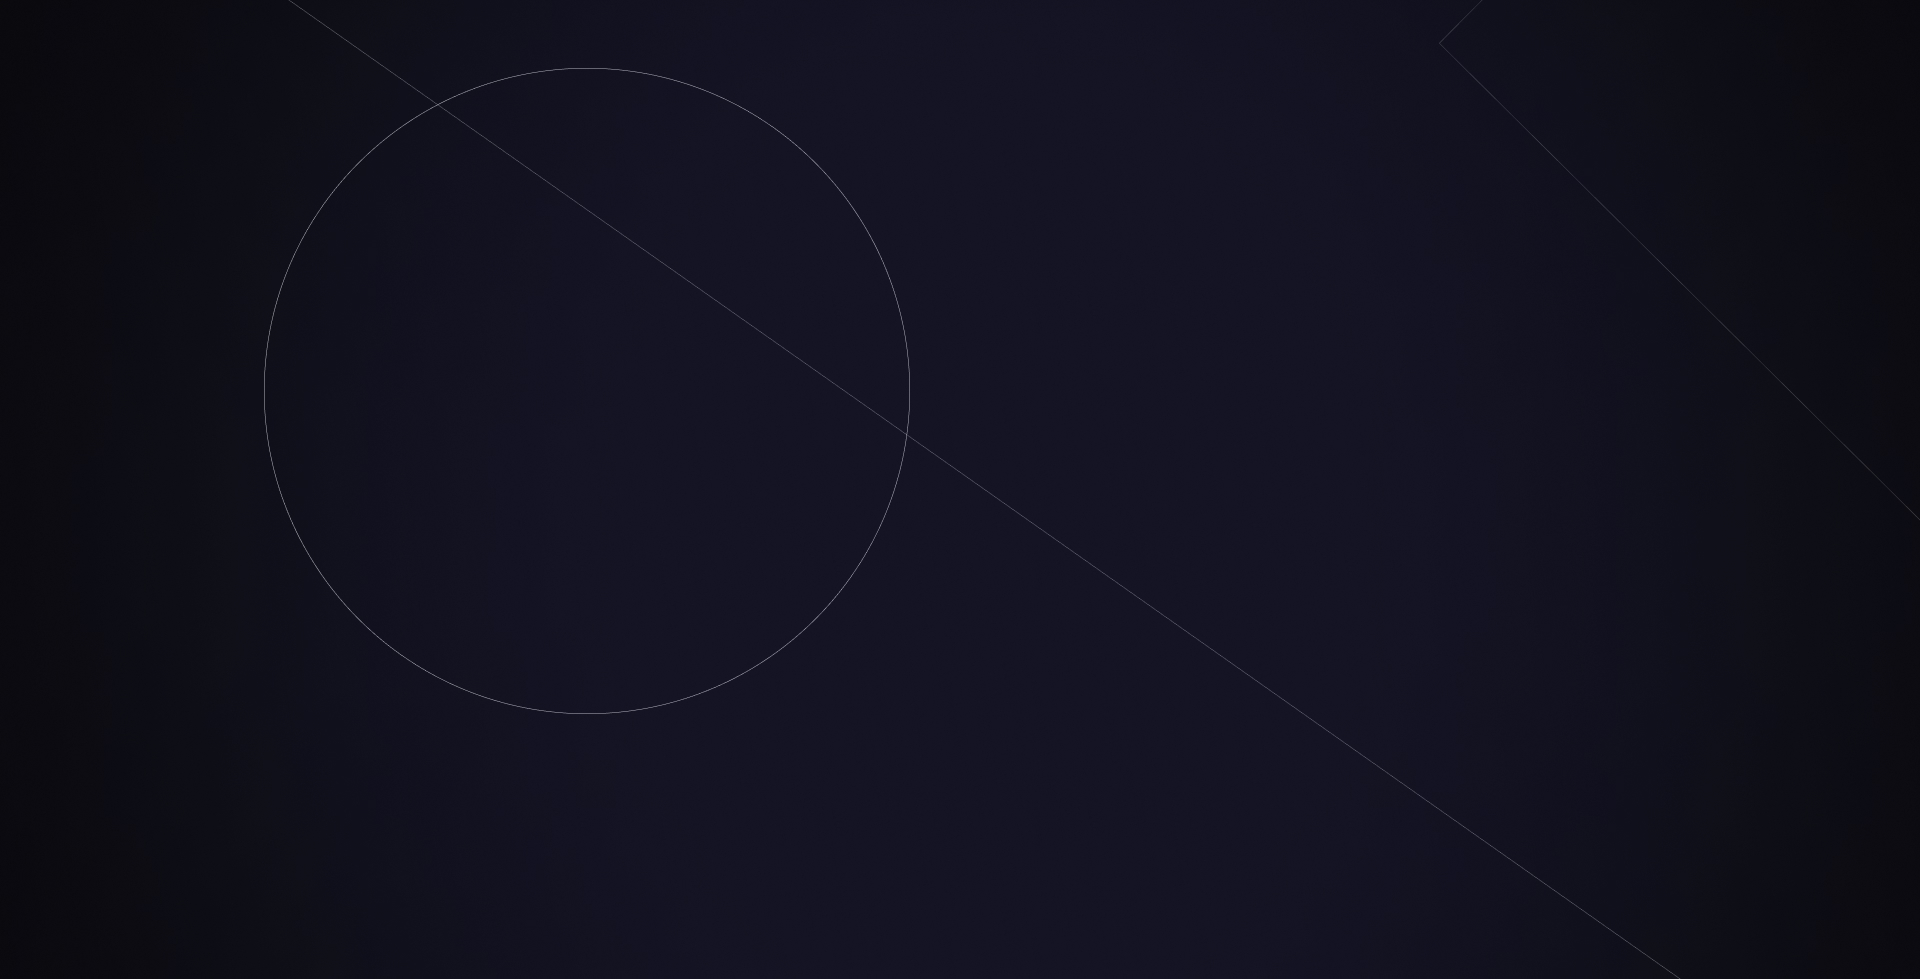
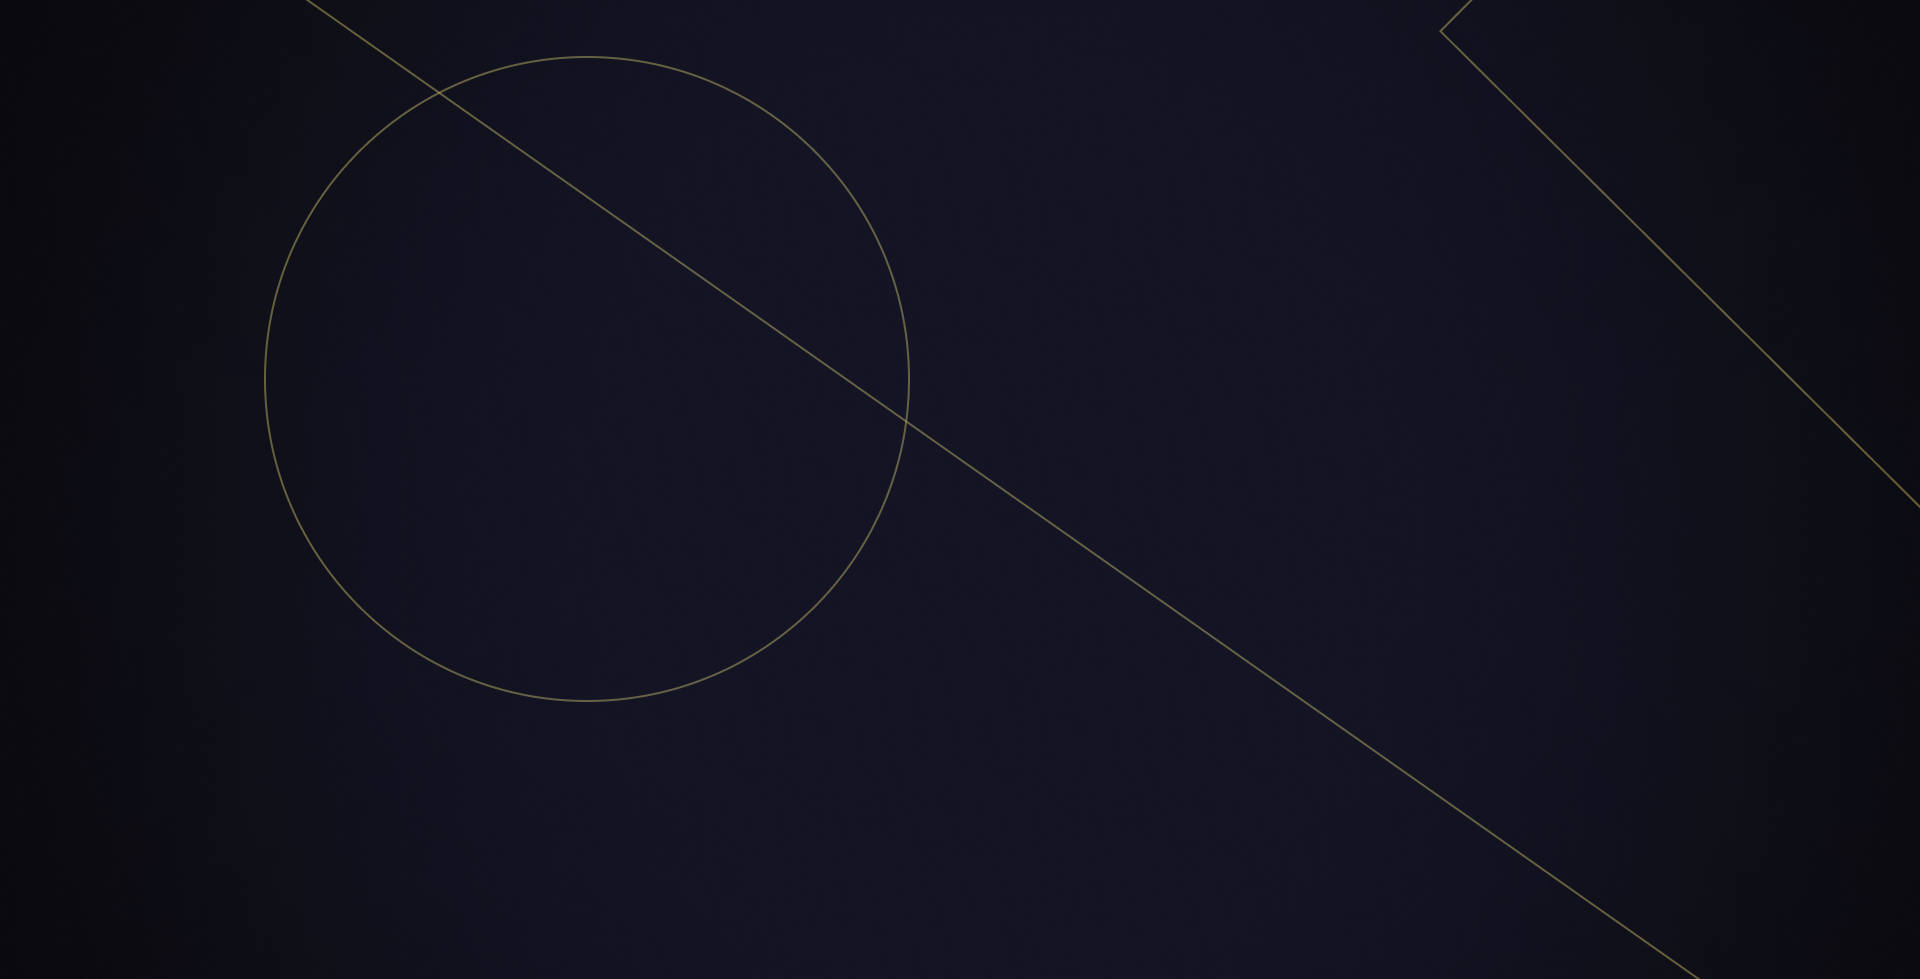
mobile commit

diff --git a/index.html b/index.html
@@ -49,9 +49,10 @@
         <div class="first_section my_s">
             <div class="text">
                 <div class="text__title">
+                    <div class="title_number">01</div>
                     <p class="number">Подготовься!</p>
-                    <img class="image" src="images/icons/200px/01.png" data-src-160="images/icons/160px/01(160px).png"
-                         data-src-120="images/icons/120px/01(120px).png" data-src-90="images/icons/90px/01(90px).png" alt="sry">
+<!--                    <img class="image" src="images/icons/200px/01.png" data-src-160="images/icons/160px/01(160px).png"-->
+<!--                         data-src-120="images/icons/120px/01(120px).png" data-src-90="images/icons/90px/01(90px).png" alt="sry">-->
                 </div>
                 <div>
                     Для начала нужно грамотно подготовить свой аккаунт, как это сделать вы можете увидеть здесь
@@ -64,9 +65,10 @@
         <div class="second_section my_s">
             <div class="text">
                 <div class="text__title">
+                    <div class="title_number">02</div>
                     <p class="number">Составь план!</p>
-                    <img class="image" src="images/icons/200px/02.png" data-src-160="images/icons/160px/02(160px).png"
-                         data-src-120="images/icons/120px/02(120px).png" data-src-90="images/icons/90px/02(90px).png" alt="sry">
+<!--                    <img class="image" src="images/icons/200px/02.png" data-src-160="images/icons/160px/02(160px).png"-->
+<!--                         data-src-120="images/icons/120px/02(120px).png" data-src-90="images/icons/90px/02(90px).png" alt="sry">-->
                 </div>
                 <div>
                     Второе, нужно научиться грамотно распределять свой игровой банк и четко следовать намеченному плану
@@ -78,9 +80,10 @@
         <div class="third_section my_s">
             <div class="text">
                 <div class="text__title">
-                    <p class="number">Виды ставок</p>
-                    <img class="image" src="images/icons/200px/03.png" data-src-160="images/icons/160px/03(160px).png"
-                         data-src-120="images/icons/120px/03(120px).png" data-src-90="images/icons/90px/03(90px).png" alt="sry">
+                    <div class="title_number dark">03</div>
+                    <p class="title_text">Виды ставок</p>
+<!--                    <img class="image" src="images/icons/200px/03.png" data-src-160="images/icons/160px/03(160px).png"-->
+<!--                         data-src-120="images/icons/120px/03(120px).png" data-src-90="images/icons/90px/03(90px).png" alt="sry">-->
                 </div>
                 <div>
                     Вам нужно понимать что значит каждый вид ставки (его расшифровка) мы подготовили для вас описание
@@ -95,9 +98,10 @@
         <div class="fourth_section my_s">
             <div class="text">
                 <div class="text__title">
-                    <p class="number">Стратегия</p>
-                    <img class="image" src="images/icons/200px/04.png" data-src-160="images/icons/160px/04(160px).png"
-                         data-src-120="images/icons/120px/04(120px).png" data-src-90="images/icons/90px/04(90px).png" alt="sry">
+                    <div class="title_number dark">04</div>
+                    <p class="title_text">Стратегия</p>
+<!--                    <img class="image" src="images/icons/200px/04.png" data-src-160="images/icons/160px/04(160px).png"-->
+<!--                         data-src-120="images/icons/120px/04(120px).png" data-src-90="images/icons/90px/04(90px).png" alt="sry">-->
                 </div>
                 <div>
                     Вам нужно вывести для себя несколько стратегий и найти самую подходящую лично для вас и научиться
@@ -112,9 +116,10 @@
         <div class="fifth_section my_s">
             <div class="text">
                 <div class="text__title">
-                    <p class="number">Напарник</p>
-                    <img class="image" src="images/icons/200px/05.png" data-src-160="images/icons/160px/05(160px).png"
-                         data-src-120="images/icons/120px/05(120px).png" data-src-90="images/icons/90px/05(90px).png" alt="sry">
+                    <div class="title_number">05</div>
+                    <p class="title_text">Напарник</p>
+<!--                    <img class="image" src="images/icons/200px/05.png" data-src-160="images/icons/160px/05(160px).png"-->
+<!--                         data-src-120="images/icons/120px/05(120px).png" data-src-90="images/icons/90px/05(90px).png" alt="sry">-->
                 </div>
                 <div>
                     Вам нужно обзавестись куратором который грамотно и максимально понятно вам все объяснит, чтобы у вас
@@ -155,5 +160,5 @@
         integrity="sha512-Xaje5GN/tSuxnQNdbOMppDPWWpPMN0WGfay1St6ckxBqnm3hB66iVqBbLXmujadwsH9KOUVHJZ3GR9QpAEF1GQ=="
         crossorigin="anonymous" referrerpolicy="no-referrer"></script>
 <script src="js/script.js"></script>
-<script src="js/dataChanges.js"></script>
+<!--<script src="js/dataChanges.js"></script>-->
 </html>

diff --git a/css/style.css b/css/style.css
@@ -40,10 +40,12 @@
 .main_section {
     display: flex;
     justify-content: center;
+    align-items: center;
     font-size: 30px;
     width: 100%;
     color: white;
     font-weight: 700;
+    margin-top: 190px;
 }
 
 .section {
@@ -110,9 +112,8 @@ body::-webkit-scrollbar {
 }
 
 .telegram_btn__icon {
-    width: 42px;
-    min-width: 42px;
-    height: 42px;
+    width: 32px;
+    height: 32px;
     background: url("../images/icons/Vector.png") center/contain no-repeat;
 }
 
@@ -123,7 +124,7 @@ body::-webkit-scrollbar {
 }
 
 .main_text {
-    margin-top: 190px;
+    /*margin-top: 190px;*/
     max-width: 1200px;
     width: auto;
 }
@@ -140,12 +141,32 @@ body::-webkit-scrollbar {
     color: #242424;
 }
 
-.image {
+.title_number {
     position: absolute;
-    top: -52px;
-    left: -103px;
+    font-size: 200px;
+    top: -102px;
+    left: -95px;
     z-index: -1;
+    background: linear-gradient(180deg, rgba(187, 169, 7, 0.7) 13.54%, rgba(241, 233, 159, 0) 73.17%);
+    /*-webkit-background-clip: text;*/
+    /*-webkit-text-fill-color: transparent;*/
+    -webkit-background-clip: text;
+    -webkit-text-fill-color: transparent;
+    /*text-fill-color: transparent;*/
+    /*background-clip: text;*/
+    /*backdrop-filter: blur(4px);*/
 }
+
+.title_number.dark{
+    background: linear-gradient(180deg, rgba(189, 179, 87, 0.7) 0%, rgba(241, 233, 159, 0) 73.06%);
+    -webkit-background-clip: text;
+    -webkit-text-fill-color: transparent;
+}
+
+/*.number{*/
+/*    -webkit-text-stroke-width: 2px;*/
+/*    -webkit-text-stroke-color: white;*/
+/*}*/
 
 ul {
     height: 300px;
@@ -165,7 +186,7 @@ li a {
 }
 
 li a.active span {
-    background: white !important;
+    background: #BDB357 !important;
 }
 
 a.active, a.active span {
@@ -208,7 +229,7 @@ ul li a span.white {
 }
 
 ul li a.active span.white {
-    background: black !important;
+    background: #BBA907!important;
 }
 
 @media (max-width: 1635px) {
@@ -230,6 +251,9 @@ ul li a.active span.white {
     .text, .main_text, .footer_text {
         max-width: 1000px;
     }
+    .main_section{
+        margin-top: 150px;
+    }
 }
 
 @media (max-width: 1060px) {
@@ -237,7 +261,7 @@ ul li a.active span.white {
         max-width: 800px;
     }
 
-    .main_text{
+    .main_section{
         margin-top: 100px;
     }
 
@@ -245,9 +269,10 @@ ul li a.active span.white {
         font-size: 76px;
     }
 
-    .image {
+    .title_number {
         top: -43px;
         left: -85px;
+        font-size: 160px;
     }
 }
 
@@ -261,6 +286,21 @@ ul li a.active span.white {
     .telegram_btn{
         margin-right: 50px;
     }
+    .first_section{
+        background: url("../images/bg/mobile/01 bg mobile.jpg") center/cover no-repeat;
+    }
+    .second_section{
+        background: url("../images/bg/mobile/02 bg mobile.jpg") center/cover no-repeat;
+    }
+    .third_section{
+        background: url("../images/bg/mobile/03 bg mobile.jpg") center/cover no-repeat;
+    }
+    .fourth_section{
+        background: url("../images/bg/mobile/04 bg mobile.jpg") center/cover no-repeat;
+    }
+    .fifth_section{
+        background: url("../images/bg/mobile/05 bg mobile.jpg") center/cover no-repeat;
+    }
 }
 
 @media (max-width: 830px) {
@@ -271,9 +311,10 @@ ul li a.active span.white {
     .text__title {
         font-size: 60px;
     }
-    .image {
+    .title_number {
         top: -30px;
         left: -60px;
+        font-size: 120px;
     }
 }
 
@@ -305,9 +346,13 @@ ul li a.active span.white {
         justify-content: center;
         padding: 0;
     }
-    .image {
-        top: -21px;
-        left: -40px;
+    .first_btn .btn_text{
+        display: none;
+    }
+    .title_number {
+        /*top: -21px;*/
+        /*left: -40px;*/
+        font-size: 90px;
     }
 }
 
@@ -315,9 +360,9 @@ ul li a.active span.white {
     .text__title {
         font-size: 38px;
     }
-    .image {
-        top: -30px;
-        left: -40px;
+    .title_number {
+        /*top: -30px;*/
+        /*left: -40px;*/
     }
 }
 
@@ -331,9 +376,9 @@ ul li a.active span.white {
     .logo{
         margin-left: 20px;
     }
-    .image {
-        top: -38px;
-        left: -40px;
+    .title_number {
+        /*top: -38px;*/
+        /*left: -40px;*/
     }
 }
 

diff --git a/js/script.js b/js/script.js
@@ -1,9 +1,18 @@
 new fullpage('#fullPage', {
-    autoScrolling: false,
+    autoScrolling: true,
     navigation: true,
     navigationPosition: 'left',
     credits: false,
-    dragAndMove: true,
+    // dragAndMove: 'fingersonly',
+    recordHistory: true,
+    onLeave: function(origin, destination, direction, trigger){
+        setTimeout(scroll_handler, 100)
+        clearTimeout()
+    },
+    // beforeLeave: function(origin, destination, direction, trigger){
+    //     scroll_handler()
+    // },
+    fitToSection: true,
 })
 
 
@@ -33,31 +42,31 @@ const scroll_handler = () => {
     })
 }
 
-window.addEventListener('wheel', () => {
-    scroll_handler()
-    console.log(document.body.offsetTop)
-})
-
-window.addEventListener('keyup', e => {
-    if (e.key === 'ArrowDown' || e.key === 'ArrowUp') {
-        scroll_handler()
-    }
-})
-
-window.addEventListener('keydown', e => {
-    if (e.key === 'ArrowDown' || e.key === 'ArrowUp') {
-        scroll_handler()
-    }
-})
-
-window.addEventListener('drag', () => {
-    console.log('drag!')
-})
-
-nav_items.forEach(nav_item => {
-    nav_item.addEventListener('click', () => {
-        setTimeout(scroll_handler, 100)
-        clearTimeout()
-    })
-})
+// window.addEventListener('wheel', () => {
+//     scroll_handler()
+//     console.log(document.body.offsetTop)
+// })
+//
+// window.addEventListener('keyup', e => {
+//     if (e.key === 'ArrowDown' || e.key === 'ArrowUp') {
+//         scroll_handler()
+//     }
+// })
+//
+// window.addEventListener('keydown', e => {
+//     if (e.key === 'ArrowDown' || e.key === 'ArrowUp') {
+//         scroll_handler()
+//     }
+// })
+//
+// window.addEventListener('drag', () => {
+//     console.log('drag!')
+// })
+//
+// nav_items.forEach(nav_item => {
+//     nav_item.addEventListener('click', () => {
+//         setTimeout(scroll_handler, 100)
+//         clearTimeout()
+//     })
+// })
 

diff --git a/js/dataChanges.js b/js/dataChanges.js
@@ -17,12 +17,6 @@ const dataChanges = () => {
     }
 }
 
-const button_handler = () => {
-    const btn_text = document.querySelector('.btn_text')
-    if (window.innerWidth <=630){
-        btn_text.remove()
-    }
-}
+
 
 dataChanges()
-button_handler()
